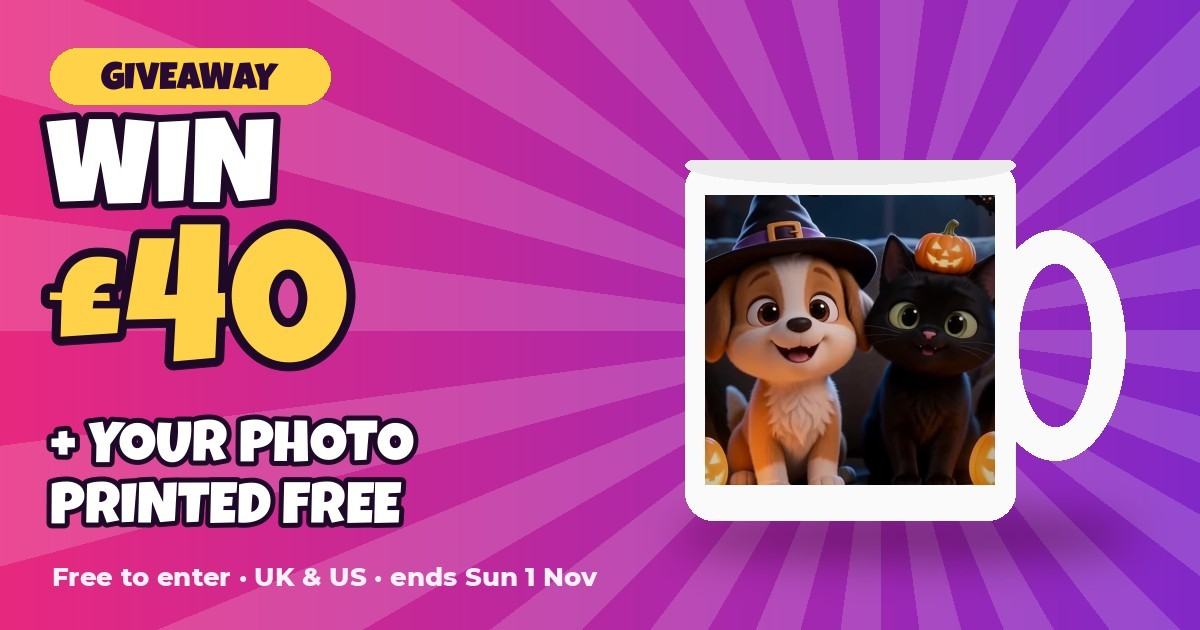
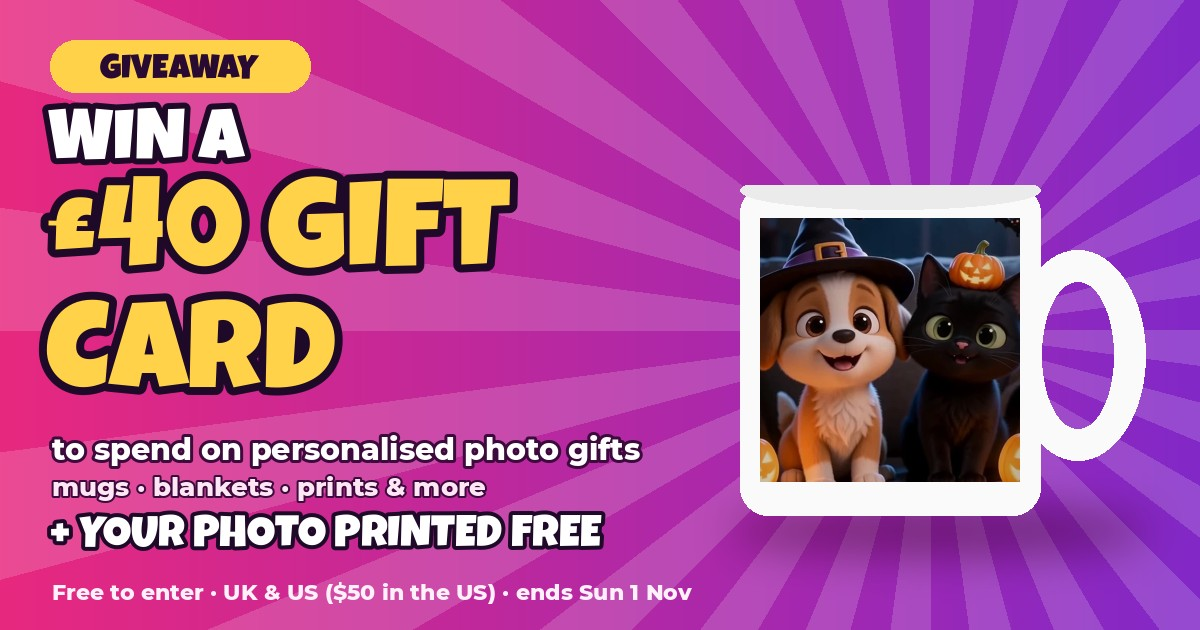
Giveaway share image: say clearly it's a £40 gift card for photo gifts
Claude-Session: https://claude.ai/code/session_01HbW6DW9iCZ4LUUMQkhEPyg

diff --git a/giveaway.html b/giveaway.html
@@ -15,11 +15,11 @@
 <meta name="description" content="Win a £40 ONJJEM gift card ($50 in the US) plus your own photo printed as a postcard. Free to enter, UK & US, closes Sunday 1 November 2026, 8pm UK time.">
 <meta property="og:title" content="🎁 Win a £40 gift card + your photo printed free">
 <meta property="og:description" content="Free to enter in 30 seconds and get a free cartoon of your photo. UK & US. Closes Sun 1 Nov, 8pm UK.">
-<meta property="og:image" content="https://onjjem.com/giveaway-og.jpg?v=1">
+<meta property="og:image" content="https://onjjem.com/giveaway-og.jpg?v=2">
 <meta property="og:image:width" content="1200">
 <meta property="og:image:height" content="630">
 <meta name="twitter:card" content="summary_large_image">
-<meta name="twitter:image" content="https://onjjem.com/giveaway-og.jpg?v=1">
+<meta name="twitter:image" content="https://onjjem.com/giveaway-og.jpg?v=2">
 <style>
   body { background: #0A0804; color: #F5EDD8; font-family: system-ui, sans-serif; max-width: 640px; margin: 0 auto; padding: 32px 20px 60px; line-height: 1.65; }
   h1 { color: #FFD24A; font-size: 30px; line-height: 1.2; margin: 6px 0 10px; }
